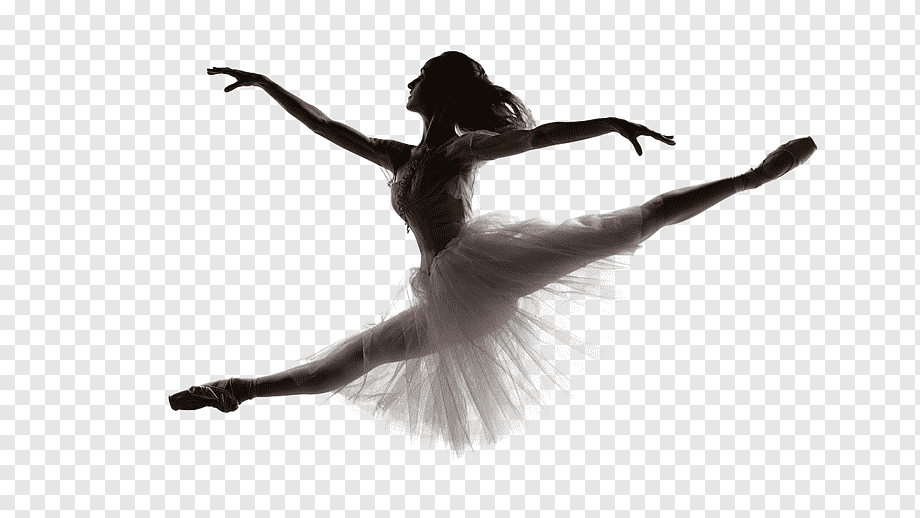
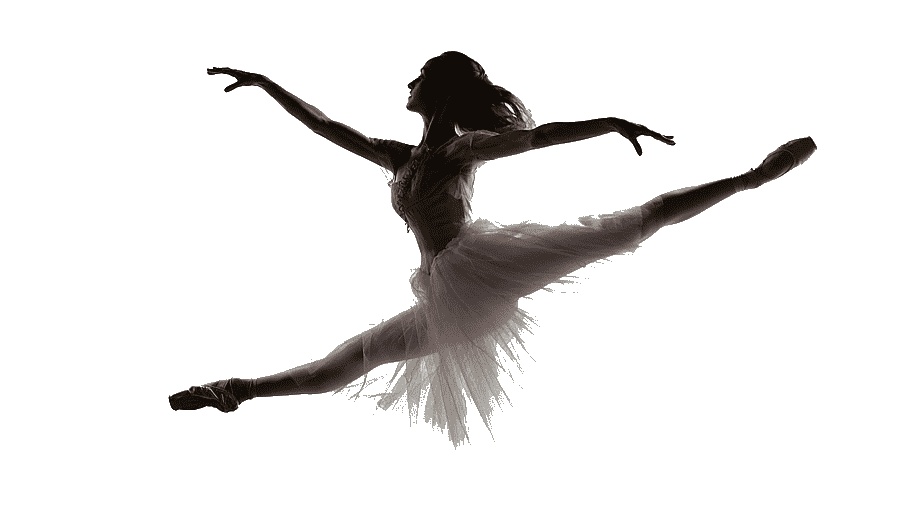
init

diff --git a/src/components/Main_Page/displays/Footer/footer.css b/src/components/Main_Page/displays/Footer/footer.css
@@ -1,3 +1,86 @@
 .footer-main{
+    width: 100%;
+    height: 40vh;
+    background-color: black;
+    margin-top: 200px;
+    display: flex;
+    flex-direction: column;
+    justify-content: flex-start;
+}
 
+.footer-wrapper{
+    width: 100%;
+    height: 85%;
+    display: flex;
+    justify-content: space-between;
+}
+
+.footer-wrapper-left, .footer-wrapper-right{
+    width: 40%;
+    height: 100%;
+}
+
+.footer-p{
+    margin-top: 50px;
+    margin-left: 150px;
+}
+
+.footer-wrapper-right{
+    position: relative;
+}
+
+.footer-wrapper-right img{
+    position: absolute;
+    bottom: 70px;
+    right: 0;
+}
+
+.footer-p{
+    font-family: 'Proxima-Nova', sans-serif;
+    font-size: 17px;
+    color: white;
+}
+
+.footer-p-big{
+    font-family: 'Ogg', sans-serif;
+    font-size: 40px;
+    text-transform: uppercase;
+    color: white;
+    margin: 0 auto;
+    letter-spacing: 15px;
+}
+
+input[type = "text"] {
+    border: 2px solid #FFFFFF; /*/цвет рамки*/
+    box-sizing: border-box;
+    background: #ffffff !important; /*/ желательно прописывать, так как в Chrome при сохранных данных оно может быть желтым*/
+    outline: none; /*/ удаляет обводку в браузерах хром(желтая) и сафари(синяя)*/
+    width: 200px;
+    height: 40px; /*/ ширина на свое усмотрение*/
+    color: #ECECEC; /*/цвет шрифта в обычном состоянии*/
+    font-family: 'Proxima-Nova', sans-serif;
+    font-size: 17px;
+    line-height: 18px; /*/ Размер шрифта*/
+    padding-left: 10px;
+}
+
+input[type = "text"]:focus{
+    color: black;
+}
+
+.footer-wrapper-left button{
+    width: 150px;
+    height: 40px;
+    border: 2px solid white;
+    background-color: transparent;
+    color: white;
+    cursor: pointer;
+}
+
+.footer-form{
+    display: flex;
+    justify-content: flex-start;
+    align-items: center;
+    margin-left: 150px;
+    margin-top: 20px;
 }

diff --git a/src/components/Main_Page/displays/Footer/Footer.js b/src/components/Main_Page/displays/Footer/Footer.js
@@ -1,10 +1,39 @@
-import React from "react";
+import React, {useState} from "react";
 import './footer.css';
 
-function Footer () {
-  return(
-      <div className='footer-main'>
+import img from '../../../../img/main_page/png-transparent-modern-ballet-dancer-contemporary-dance-classical-ballet-contemporary-ballet-2018-performing-arts-event.png';
 
+function Footer () {
+
+    const [state, setState] = useState();
+
+
+    function setInfo(e) {
+        const email = e.target.value;
+        setState(email);
+    }
+
+    function showEmail() {
+        console.log(state)
+    }
+
+    return(
+      <div className='footer-main'>
+          <div className='footer-wrapper'>
+              <div className='footer-wrapper-left'>
+                  <p className='footer-p'>Subscribe to the newsletter</p>
+                  <div className='footer-form'>
+                      <input type='text' defaultValue='E-mail' onInput={setInfo}/>
+                      <button onClick={showEmail}>Subscribe</button>
+                  </div>
+                  <p className='footer-p'>White Lodge, Richmond Park, Richmond, Surrey <br/> TW10 5HR, UK</p>
+                  <p className='footer-p'>+44 (0)20 8390 8440</p>
+              </div>
+              <div className='footer-wrapper-right'>
+                  <img src={img} alt='ballerina'/>
+              </div>
+          </div>
+          <p className='footer-p-big'>black swan</p>
       </div>
   )
 }

diff --git a/src/components/Main_Page/Main_Page.js b/src/components/Main_Page/Main_Page.js
@@ -7,6 +7,7 @@ import Classes from "./displays/Classes/Classes";
 import Photo_Line from "./displays/Photo_Line/Photo_Line";
 import Teachers from "./displays/Teachers/Teachers";
 import Performances from "./displays/Performances/Performances";
+import Footer from "./displays/Footer/Footer";
 
 
 function Main_Page () {
@@ -19,6 +20,7 @@ function Main_Page () {
           <Photo_Line/>
           <Teachers/>
           <Performances/>
+          <Footer/>
       </div>
   )
 }
